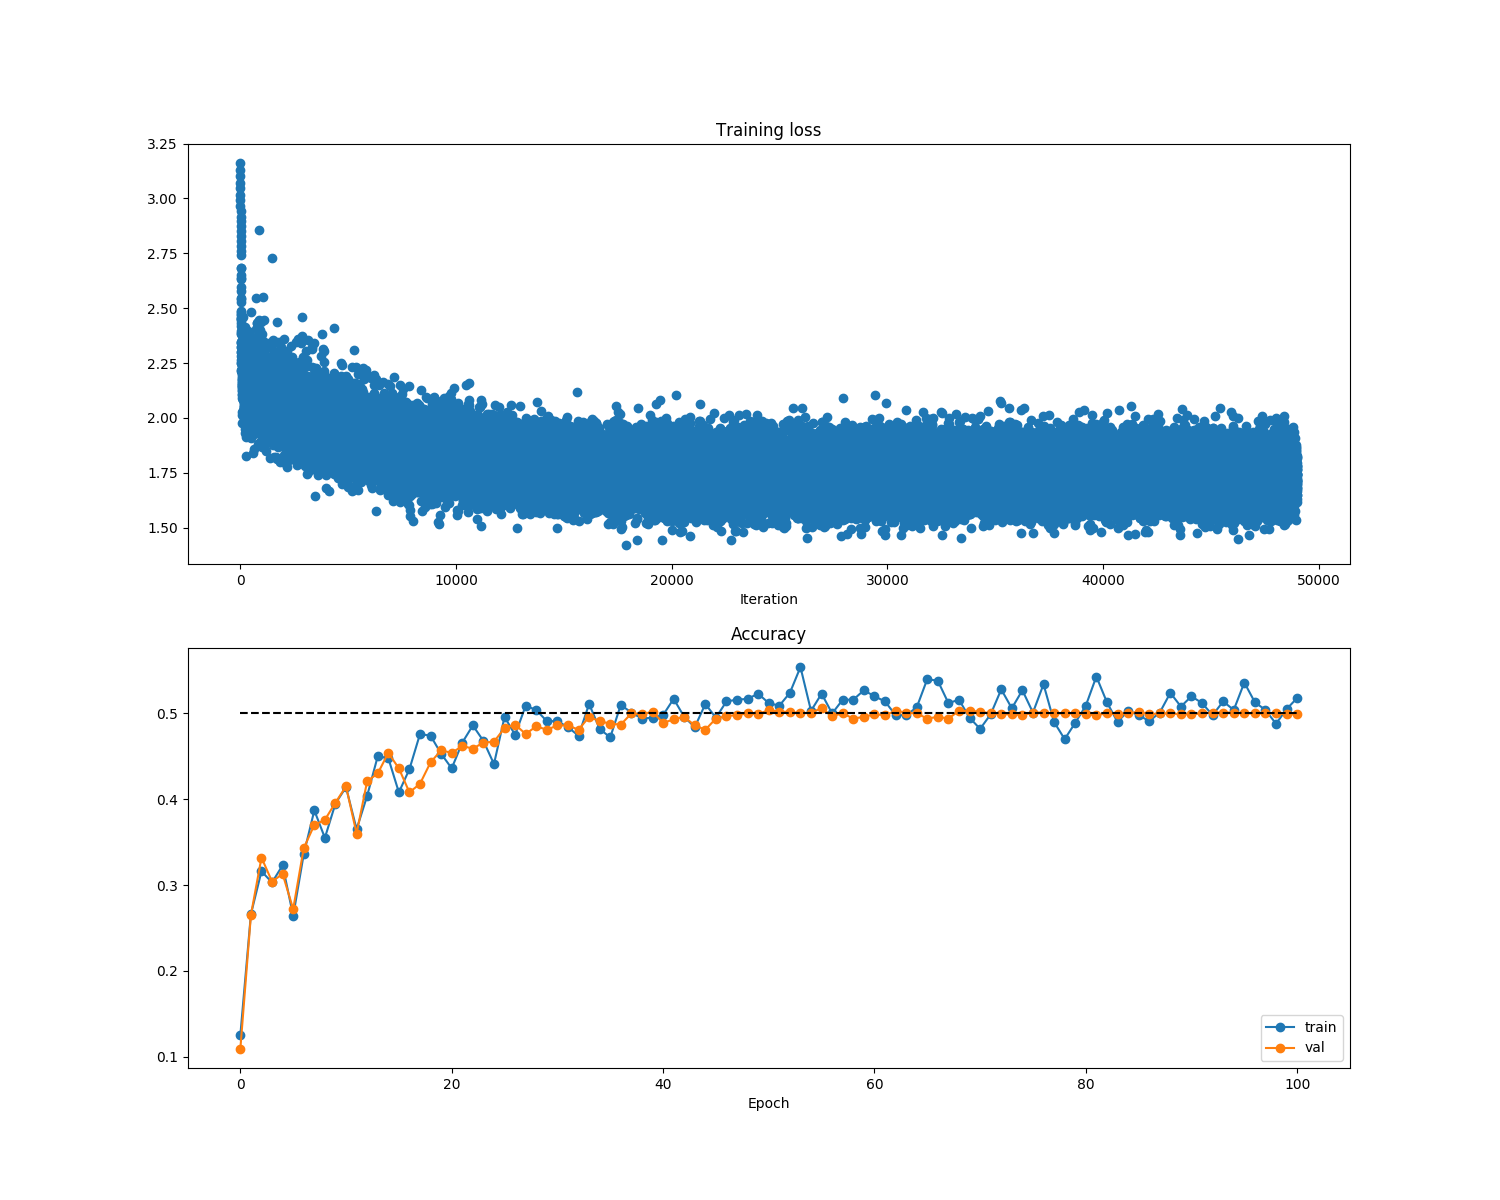
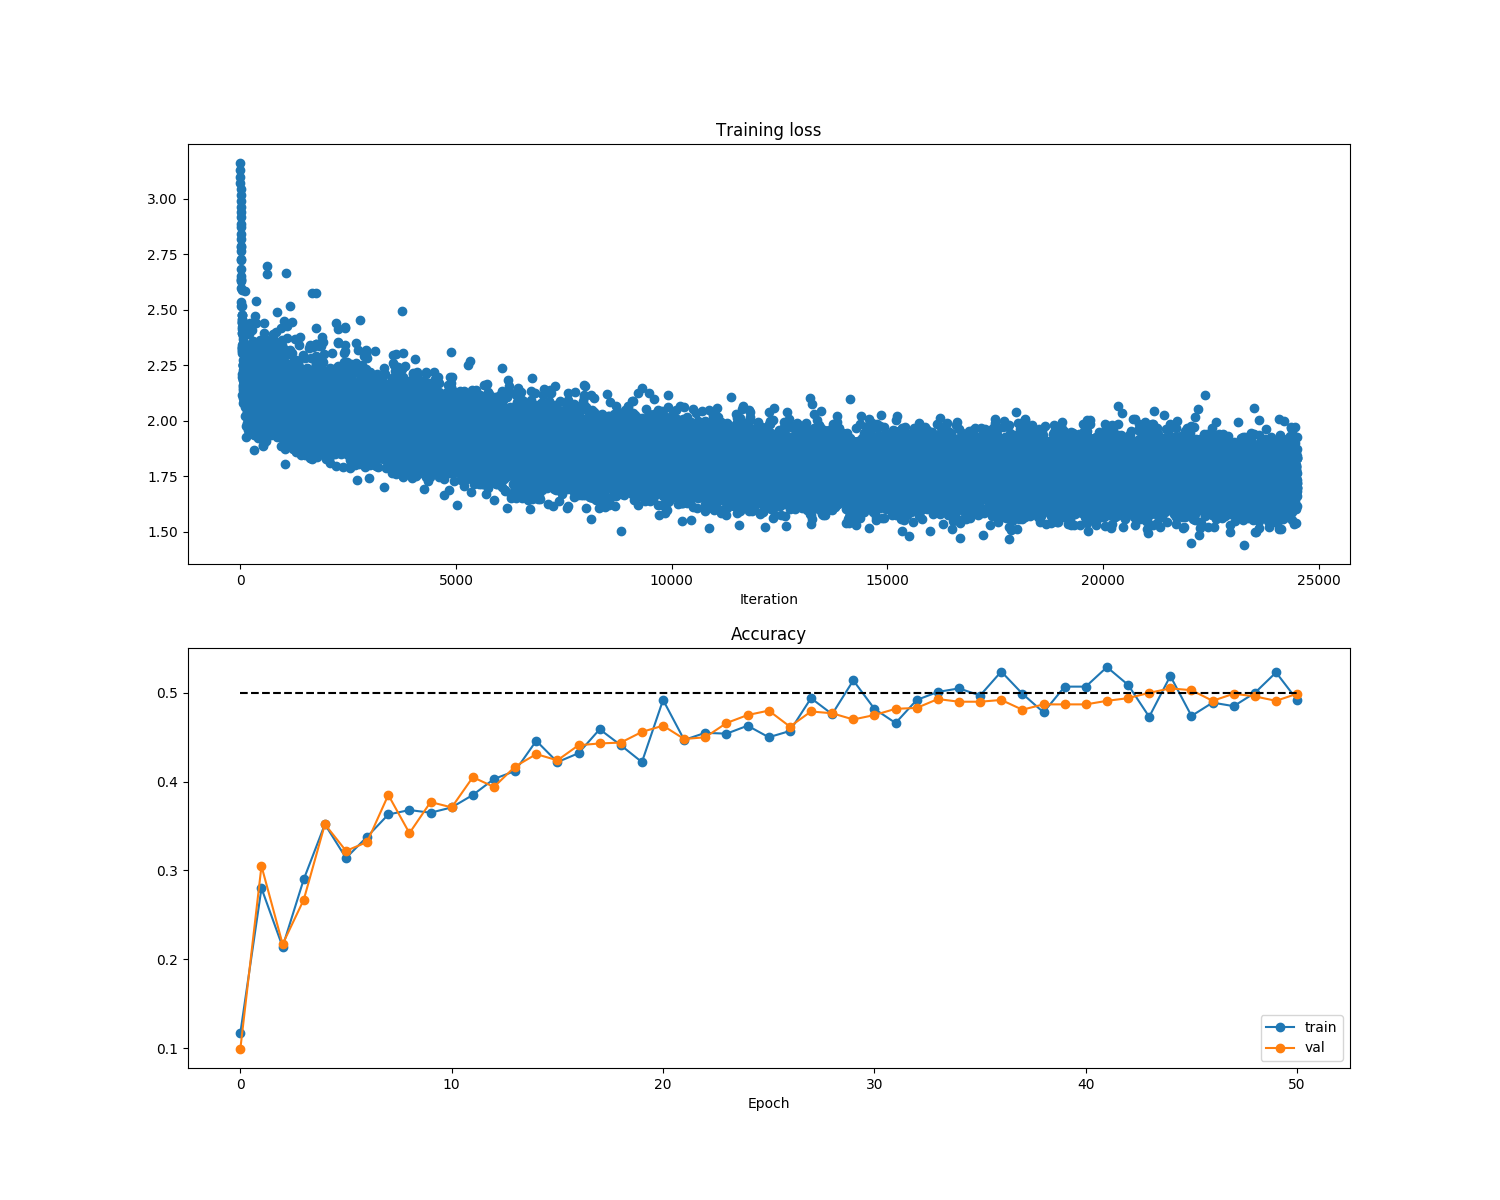
weight visualizations

diff --git a/main.py b/main.py
@@ -6,6 +6,7 @@ from src.data_utils import get_CIFAR10_data
 from src.gradient_check import eval_numerical_gradient, eval_numerical_gradient_array
 from src.solver import Solver
 from src.canonicalize import *
+from display_funcs import *
 
 plt.rcParams['figure.figsize'] = (10.0, 8.0) # set default size of plots
 plt.rcParams['image.interpolation'] = 'nearest'
@@ -18,26 +19,7 @@ def rel_error(x, y):
 ########################################################################################
 
 ########################################################################################
-def plot_train_loss(solver1, plot_name):
-    plt.subplot(2, 1, 1)
-    plt.title('Training loss')
-    plt.plot(solver1.loss_history, 'o')
-    plt.xlabel('Iteration')
-    
-    plt.subplot(2, 1, 2)
-    plt.title('Accuracy')
-    plt.plot(solver1.train_acc_history, '-o', label='train')
-    plt.plot(solver1.val_acc_history, '-o', label='val')
-    plt.plot([0.5] * len(solver1.val_acc_history), 'k--')
-    plt.xlabel('Epoch')
-    plt.legend(loc='lower right')
-    plt.gcf().set_size_inches(15, 12)
-    plt.savefig('outputs/'+plot_name+'.png')
-########################################################################################
-
-########################################################################################
 # Load the (preprocessed) CIFAR10 data.
-
 data = get_CIFAR10_data()
 for k, v in data.iteritems():
     print '%s: ' % k, v.shape
@@ -47,14 +29,6 @@ for k, v in data.iteritems():
 X_train = data['X_train']
 y_train = data['y_train']
 
-'''
-total_train_size = X_train.shape[0]
-full_indices = np.random.permutation(total_train_size)
-
-mask1 = range(total_train_size)
-X_train1 = X_train[full_indices[mask1]]
-y_train1 = y_train[full_indices[mask1]]
-'''
 data1 = {
         'X_train': X_train, 'y_train' : y_train,
         'X_val': data['X_val'], 'y_val' : data['y_val'],
@@ -63,7 +37,6 @@ data1 = {
 ########################################################################################
 
 ########################################################################################
-best_model1 = None
 ################################################################################
 # TODO: Train the best FullyConnectedNet that you can on CIFAR-10. You might   #
 # batch normalization and dropout useful. Store your best model in the         #
@@ -72,18 +45,19 @@ best_model1 = None
 # here I use the same parameters I got before, seems like they perform moderately fine
 model1 = FullyConnectedNet([100, 100], weight_scale=0.003, use_batchnorm = False, reg=0.6)
 solver1 = Solver(model1, data1,
-                        print_every=data1['X_train'].shape[0], num_epochs=100, batch_size=100,
+                        print_every=data1['X_train'].shape[0], num_epochs=50, batch_size=100,
                         update_rule='sgd',
                         optim_config={
                           'learning_rate': 0.03,
                         },verbose=True, lr_decay = 0.9,
                  )
 solver1.train()
-best_model1 = model1
 pass
 ########################################################################################
 
 ########################################################################################
 # plot stuff
 plot_train_loss(solver1, 'train_accuracy_plot')
+ids = range(1, model1.params['W1'].shape[1])
+save_net_weights(model1, ids, 'model1')
 ########################################################################################

diff --git a/display_funcs.py b/display_funcs.py
@@ -1,0 +1,31 @@
+import matplotlib.pyplot as plt
+from src.vis_utils import visualize_grid
+
+def save_net_weights(net, ids, name):
+    ext = '.png'
+    W1 = net.params['W1'][:,ids]
+    W1 = W1.reshape(3, 32, 32, -1).transpose(3, 1, 2, 0)
+    plt.imshow(visualize_grid(W1, padding=3).astype('uint8'))
+    plt.gca().axis('off')
+    plt.savefig('outputs/'+name+ext, dpi=300)
+    plt.clf()
+    #plt.savefig('')
+    return None
+
+def plot_train_loss(solver1, plot_name):
+    plt.subplot(2, 1, 1)
+    plt.title('Training loss')
+    plt.plot(solver1.loss_history, 'o')
+    plt.xlabel('Iteration')
+
+    plt.subplot(2, 1, 2)
+    plt.title('Accuracy')
+    plt.plot(solver1.train_acc_history, '-o', label='train')
+    plt.plot(solver1.val_acc_history, '-o', label='val')
+    plt.plot([0.5] * len(solver1.val_acc_history), 'k--')
+    plt.xlabel('Epoch')
+    plt.legend(loc='lower right')
+    plt.gcf().set_size_inches(15, 12)
+    plt.savefig('outputs/'+plot_name+'.png')
+    plt.clf()
+    return None
